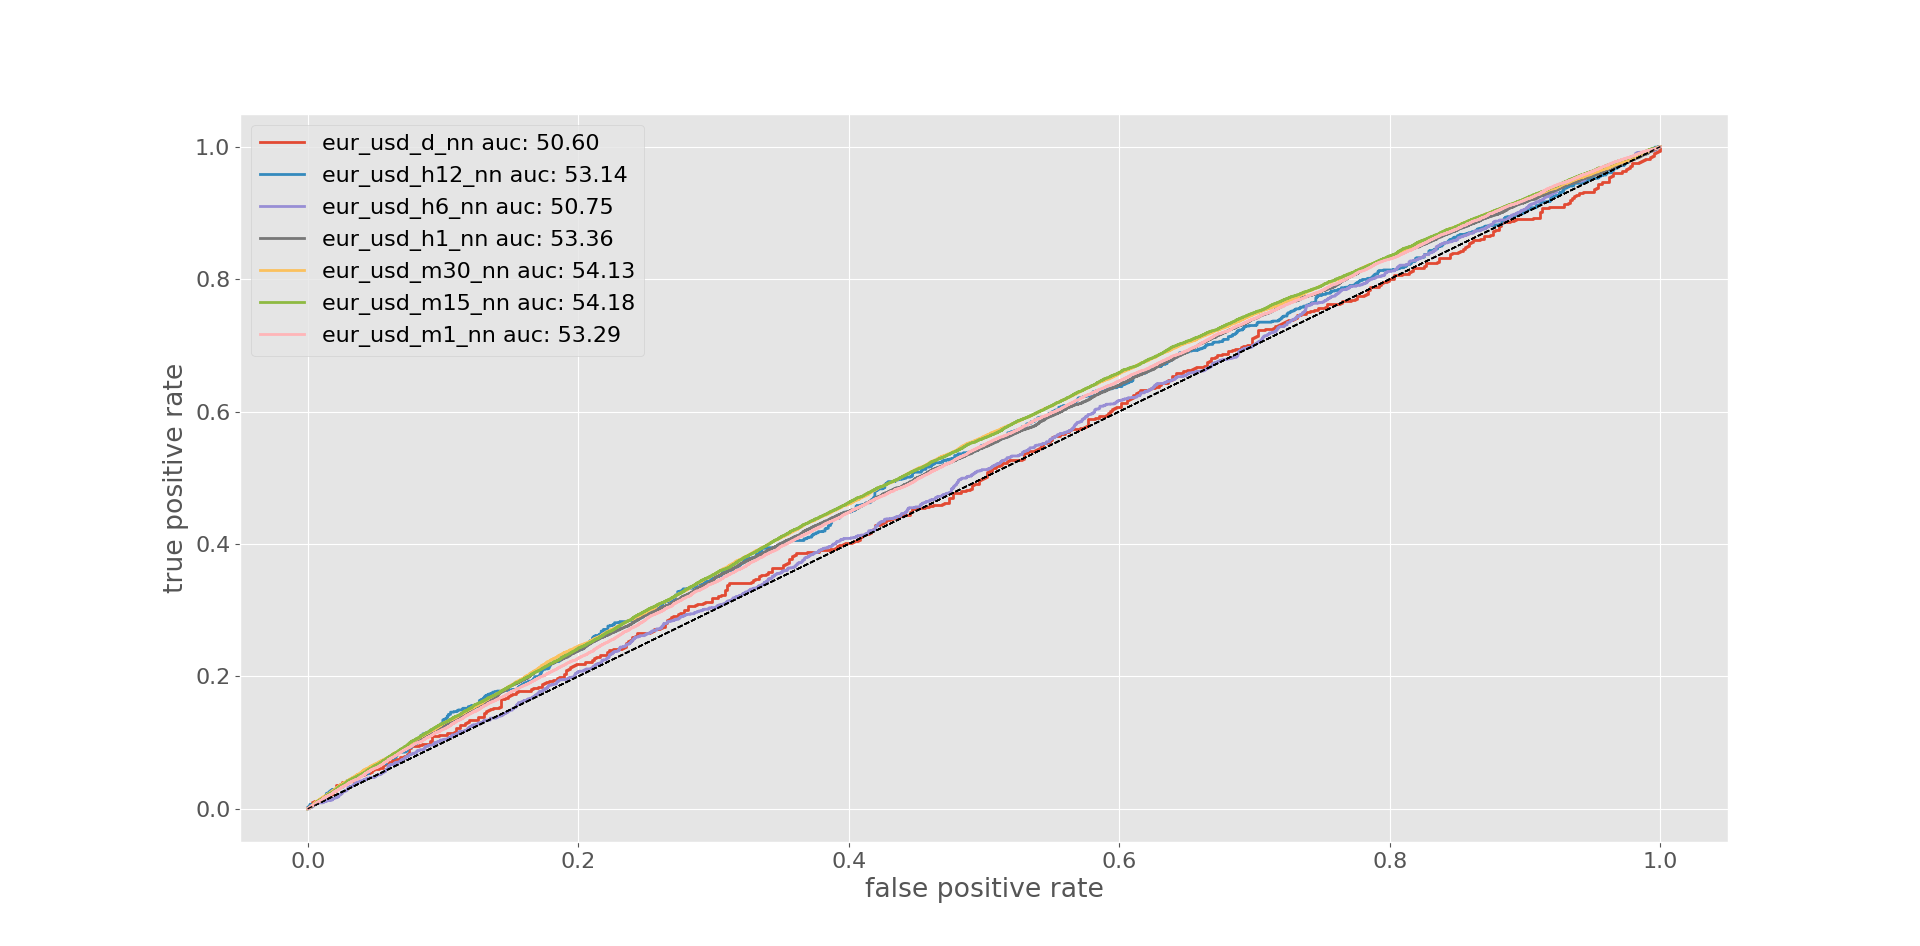
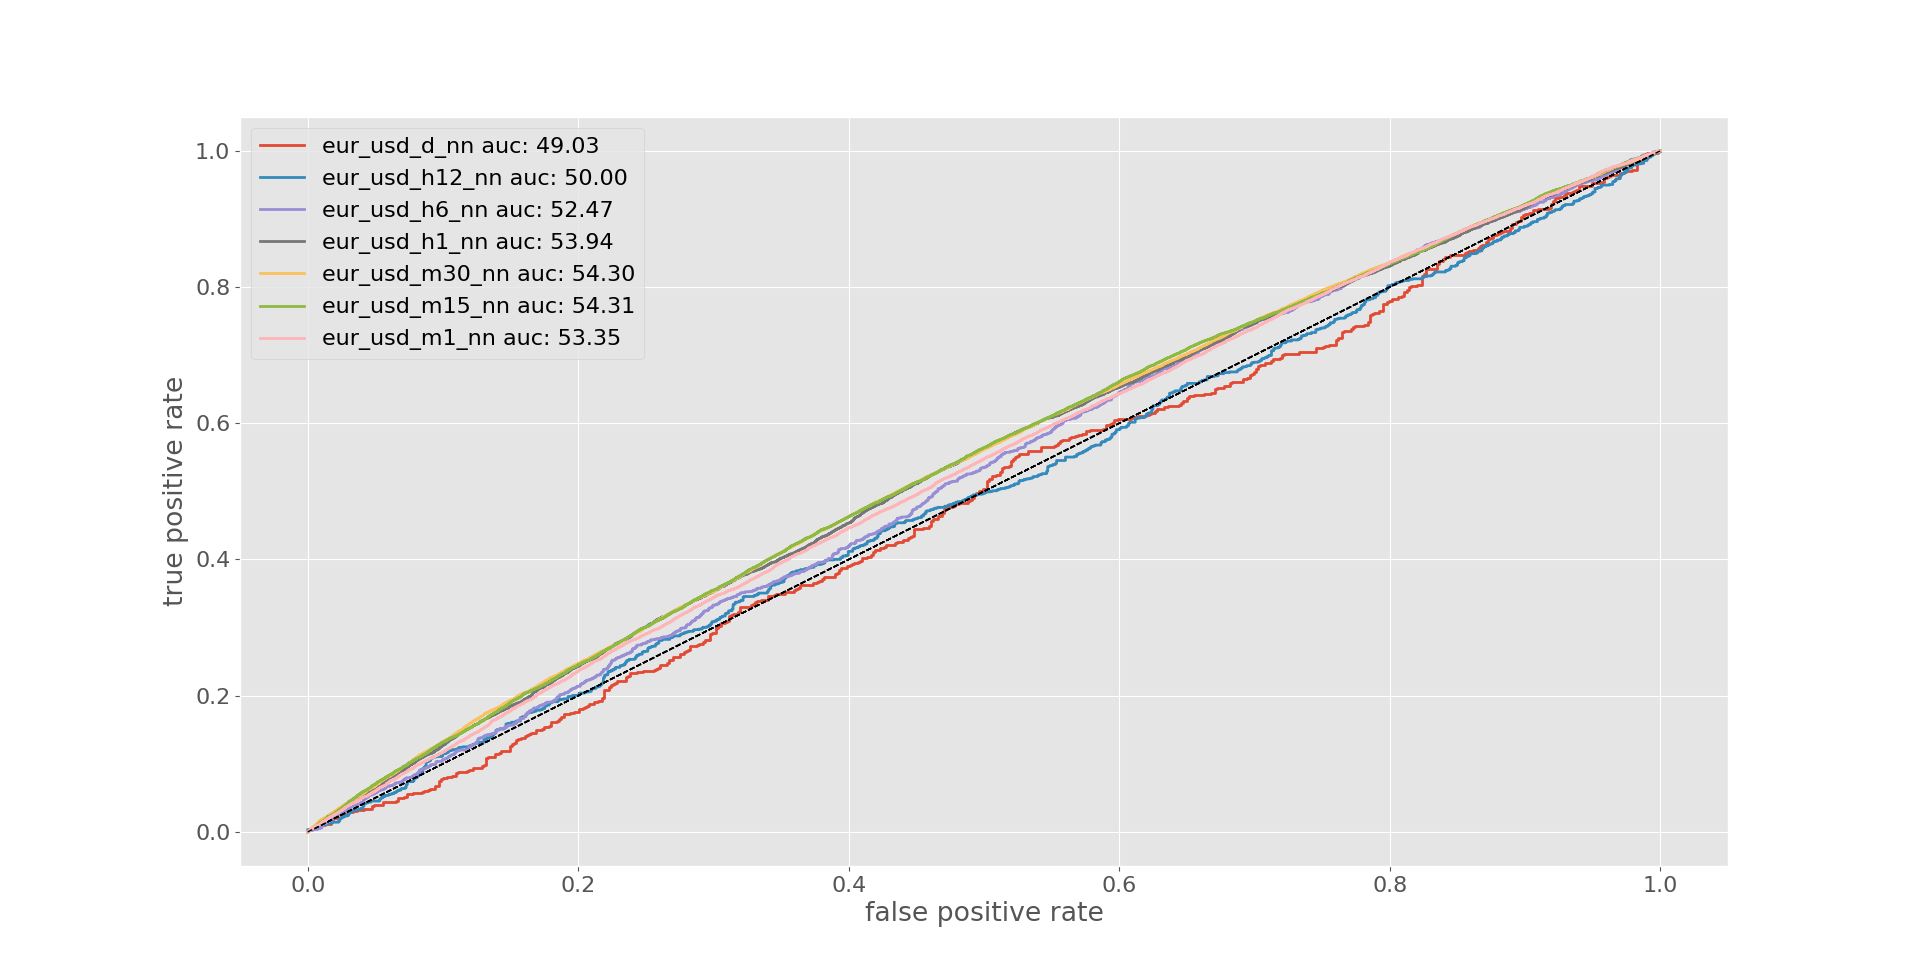
new mlp grid

diff --git a/src/models.py b/src/models.py
@@ -311,27 +311,26 @@ def get_variety_pipes():
     return pipes
 
 def store_pipe_params():
-    pipeline = Pipeline([('scale',MinMaxScaler(feature_range=(0.00001, 1))), ('kbest', SelectKBest()), ('pca', PCA()), ('clf', LogisticRegression())])
-    parameters = [{
-    'clf': [LogisticRegression()],
-    'pca__n_components': [.6, .7, .8, .9, .95, 1],
-    'kbest__score_func': [chi2, f_classif, mutual_info_classif],
-    'kbest__k': list(range(10, 60, 5)),
-    'clf__penalty': ['l1', 'l2'],
-    'clf__C': [1, .1, .01, .001, .0001]
-    },{
-    'clf': [XGBClassifier()],
-    'pca__n_components': [.6, .7, .8, .9, .95],
-    'kbest__score_func': [chi2, f_classif, mutual_info_classif],
-    'kbest__k': list(range(10, 60, 5)),
-    'clf__n_estimators': [100, 200, 500, 1000],
-    'clf__max_depth': [3,5,8,10]},
+    pipeline = Pipeline([('scale',MinMaxScaler(feature_range=(0.00001, 1))), ('pca', PCA()), ('clf', MLPClassifier())])
+    parameters = [
+    # {
+    # 'clf': [LogisticRegression()],
+    # 'pca__n_components': [.6, .7, .8, .9, .95, 1],
+    # 'kbest__score_func': [chi2, f_classif, mutual_info_classif],
+    # 'kbest__k': list(range(10, 60, 5)),
+    # 'clf__penalty': ['l1', 'l2'],
+    # 'clf__C': [1, .1, .01, .001, .0001]
+    # },{
+    # 'clf': [XGBClassifier()],
+    # 'pca__n_components': [.6, .7, .8, .9, .95],
+    # 'kbest__score_func': [chi2, f_classif, mutual_info_classif],
+    # 'kbest__k': list(range(10, 60, 5)),
+    # 'clf__n_estimators': [100, 200, 500, 1000],
+    # 'clf__max_depth': [3,5,8,10]},
     {
     'clf': [MLPClassifier()],
-    'pca__n_components': [.7, .8, .9, .95],
-    'kbest__score_func': [chi2, f_classif, mutual_info_classif],
-    'kbest__k': list(range(10, 60, 5)),
-    'clf__hidden_layer_sizer': [(100,1), (100,2), (100,3)],
+    'pca__n_components': [50, 100, 150],
+    'clf__hidden_layer_sizer': [(50,50), (50,50,50), (100,100), (100,100,100), (150,150), (150,150,150)],
     'clf__activation': ['logistic', 'tanh', 'relu'],
     'clf__learning_rate_init': [.0001],
     'clf__batch_size': [500],
@@ -379,8 +378,8 @@ def dump_big_gridsearch(n_splits=2):
                                  scoring='roc_auc')
         grid_search.fit(x, y)
         grid_search_results = pd.DataFrame(grid_search.cv_results_)
-        pickle.dump(grid_search, open('../picklehistory/'+table_name+'_grid_object_v100.pkl', 'wb'))
-        pickle.dump(grid_search_results, open('../picklehistory/'+table_name+'_grid_results_v100.pkl', 'wb'))
+        pickle.dump(grid_search, open('../picklehistory/'+table_name+'_grid_object_v1000.pkl', 'wb'))
+        pickle.dump(grid_search_results, open('../picklehistory/'+table_name+'_grid_results_v1000.pkl', 'wb'))
 
 def load_gridsearch(file_name):
     '''
@@ -402,7 +401,7 @@ def get_nn_grids():
     pipes = {}
     for table in table_names:
         table_upper = table.upper()
-        pipes[table+'_nn'] = load_gridsearch('../picklehistory/nn/'+table_upper+'_grid_nn_object_v1.pkl').best_estimator_
+        pipes[table+'_nn'] = Pipeline([('scale',StandardScaler()), ('pca', PCA(100)), ('clf', MLPClassifier(hidden_layer_sizes=(100,100,100), activation="logistic", max_iter=5000, early_stopping=True, ))])
     return pipes
 
 def get_xg_grids():
@@ -803,14 +802,14 @@ def live_trade_one_gran(instru='EUR_USD', gran='M15'):
 if __name__ == '__main__':
 
 
-    #dump_big_gridsearch()
+    dump_big_gridsearch()
 
     #live_predict_website()
 
-    prediction_dfs = all_steps_for_grans_one_model_cross_val()
+    # prediction_dfs = all_steps_for_grans_one_model_cross_val()
 
     # prediction_dfs = all_steps_for_models_cross_val()
-    for_mods_plot_roc_returns(prediction_dfs)
+    # for_mods_plot_roc_returns(prediction_dfs)
 
 
     # df = get_data('EUR_USD_M15', datetime(2012,9,1), datetime(2018,6,1))

diff --git a/README.md b/README.md
@@ -1,11 +1,8 @@
 
-* could try a 3d tsne - might yield more visual separation
-* Nice grid search talk - and I approve of AUC as the best metric - AUC is typically between 0 and 1
+
 * Put actual return on your predicted return graphs
 * For the ROC curves label the TPR and FPR axes.
 * What does paper trading mean?
-* Nice app
-* How is your paper trading doing?
 
 # * **`WORK IN PROGRESS DUE 10/10/2017`** *
 
@@ -31,7 +28,7 @@ Using classification machine learning models like logistic regression, neural ne
 
 # Historical Data
 
-The Oanda API was used to download historical EUR_USD candles to a PostgreSQL database. The data contains the volume, open, high, low, close mid prices (between bid / ask prices). The API only allows you to receive 5,000 records per request so I setup a script to download this information overnight. The database contains tables with the exchange price every 5 seconds, 10 seconds, 15 seconds, etc. from 2005 to today. Future examples will use the 15 minute candles because I got the best returns with this dataset.
+The Oanda API was used to download historical EUR_USD candles to a PostgreSQL database. The data contains the volume, open, high, low, close mid prices (between bid / ask prices). The API only allows you to receive 5,000 records per request so I setup a script to download this information overnight. The database contains tables with the exchange price every 5 seconds, 10 seconds, 15 seconds, etc. from 2005 to today.
 
 Granularity | Description
 --- | ---
@@ -195,7 +192,7 @@ Also tried dimensionality reduction  with t-sne but the calculation was expensiv
 
 # Modeling
 
-Data transformation and modeling pipelines were used to gridsearch cross validate the models and prevent data leakage. The data transformation steps included scaling, selecting the best features, and dimensionality reduction. Logistic regression, neural networks, and boosted trees were used for the models. Each step in the pipeline has a variety of parameters that can be tuned and each time granularity has . I used a powerful Amazon Web Service EC2 server to do the gridsearch parameter optimization in parallel. Both ROC_AUC and a Custom % Return scoring function was used for gridsearching.
+Data transformation and modeling pipelines were used to gridsearch cross validate the models and prevent data leakage. The data transformation steps included scaling, selecting the best features, and dimensionality reduction. Logistic regression, neural networks, and boosted trees were used for the models. Each step in the pipeline has a variety of parameters that can be tuned and each time granularity has different timeframe features selected. I used a powerful Amazon Web Service EC2 server to do the gridsearch parameter optimization in parallel. Both ROC_AUC and a Custom % Return scoring function was used for gridsearching.
 
 *Future Opportunities: Optimize the gridsearch scoring function to incorporate other financial metrics including alpha, beta, max drawdown, etc.*
 
@@ -214,23 +211,20 @@ Scaling the Features, No PCA, No Feature Selection, and Logistic Regression with
 #### Logistic Regression
 
 <img src="/imgs/lr_gran_auc.png" width="100%">
-<img src="/imgs/lr_gran_returns.png" width="100%">
 
 #### Neural Network
 
-![alttext](/imgs/nn_gran_auc.png "Neural Network ROC")
-![alttext](/imgs/nn_gran_returns.png "Neural Network Returns")
+<img src="/imgs/nn_gran_auc.png" width="100%">
 
 #### XGBoost Classifier
 
 <img src="/imgs/xg_gran_auc.png" width="100%">
-<img src="/imgs/xg_gran_returns.png" width="100%">
 
 *Future Opportunities: Stack classification and regression models. Tune a trading strategy based upon probabilities. Use a backtesting library (zipline) incorporating bid / ask spreads, trading fees.*
 
 # Paper Trading
 
-Currently the Logistic Regression model is being Paper Traded with the 15 Minute bars. The script is running on a free AWS EC2 instance with a PostgreSQL database to store the historical candles. We'll see how it does...
+Currently the Logistic Regression model is being Paper Traded (Fake Money with a Demo Account) with the 15 Minute bars. The script is running on a free AWS EC2 instance with a PostgreSQL database to store the historical candles. We'll see how it does...
 
 # Web Application
 
